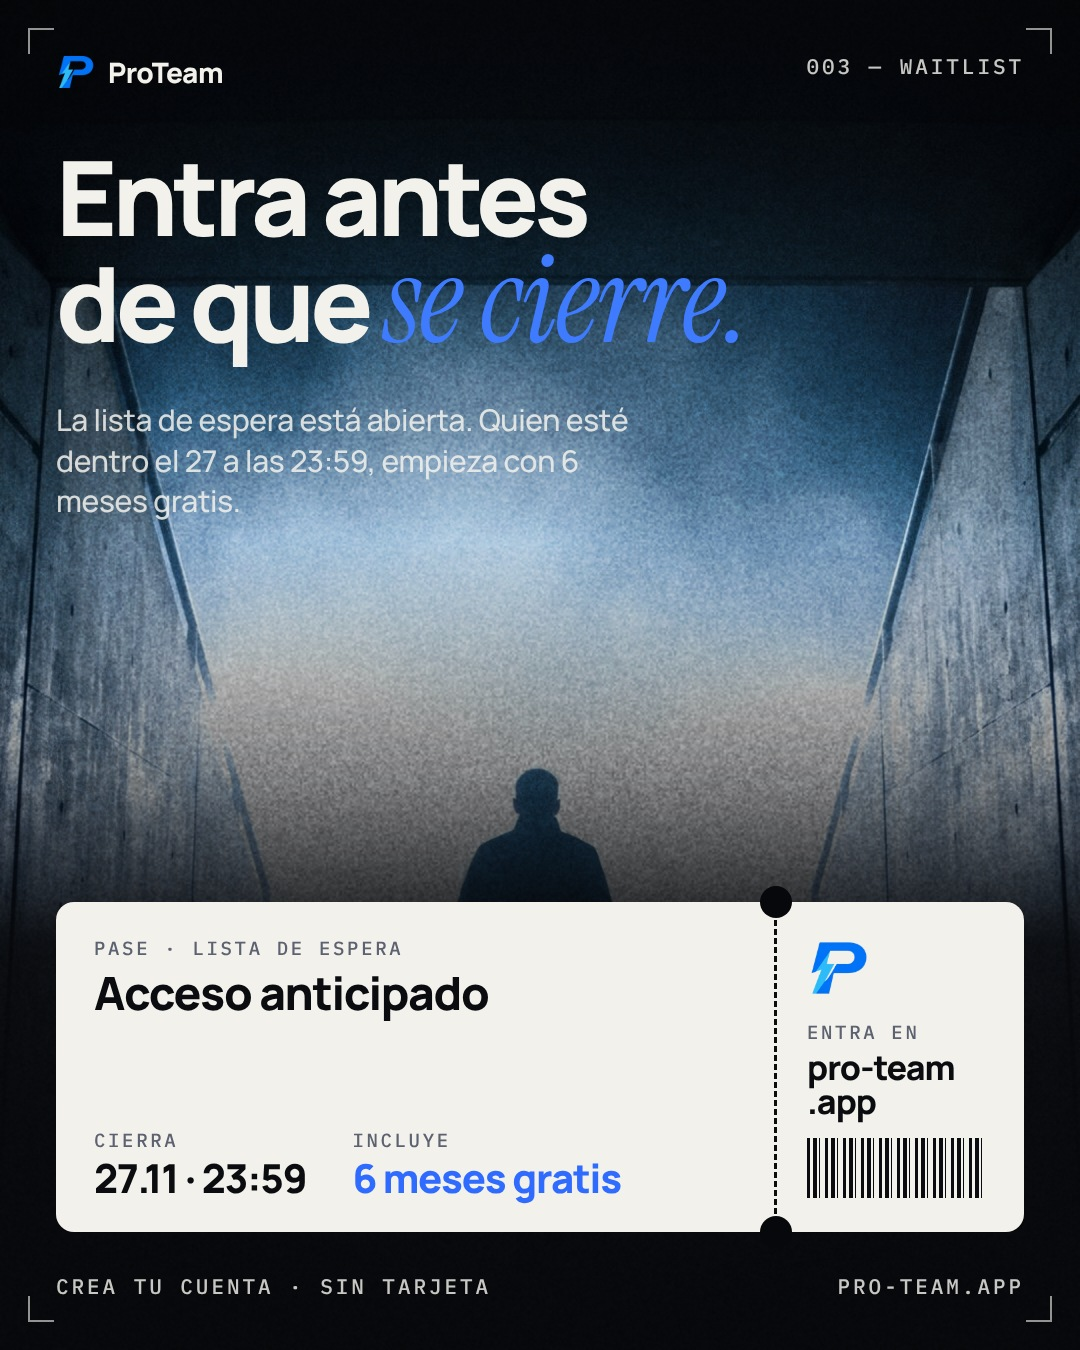
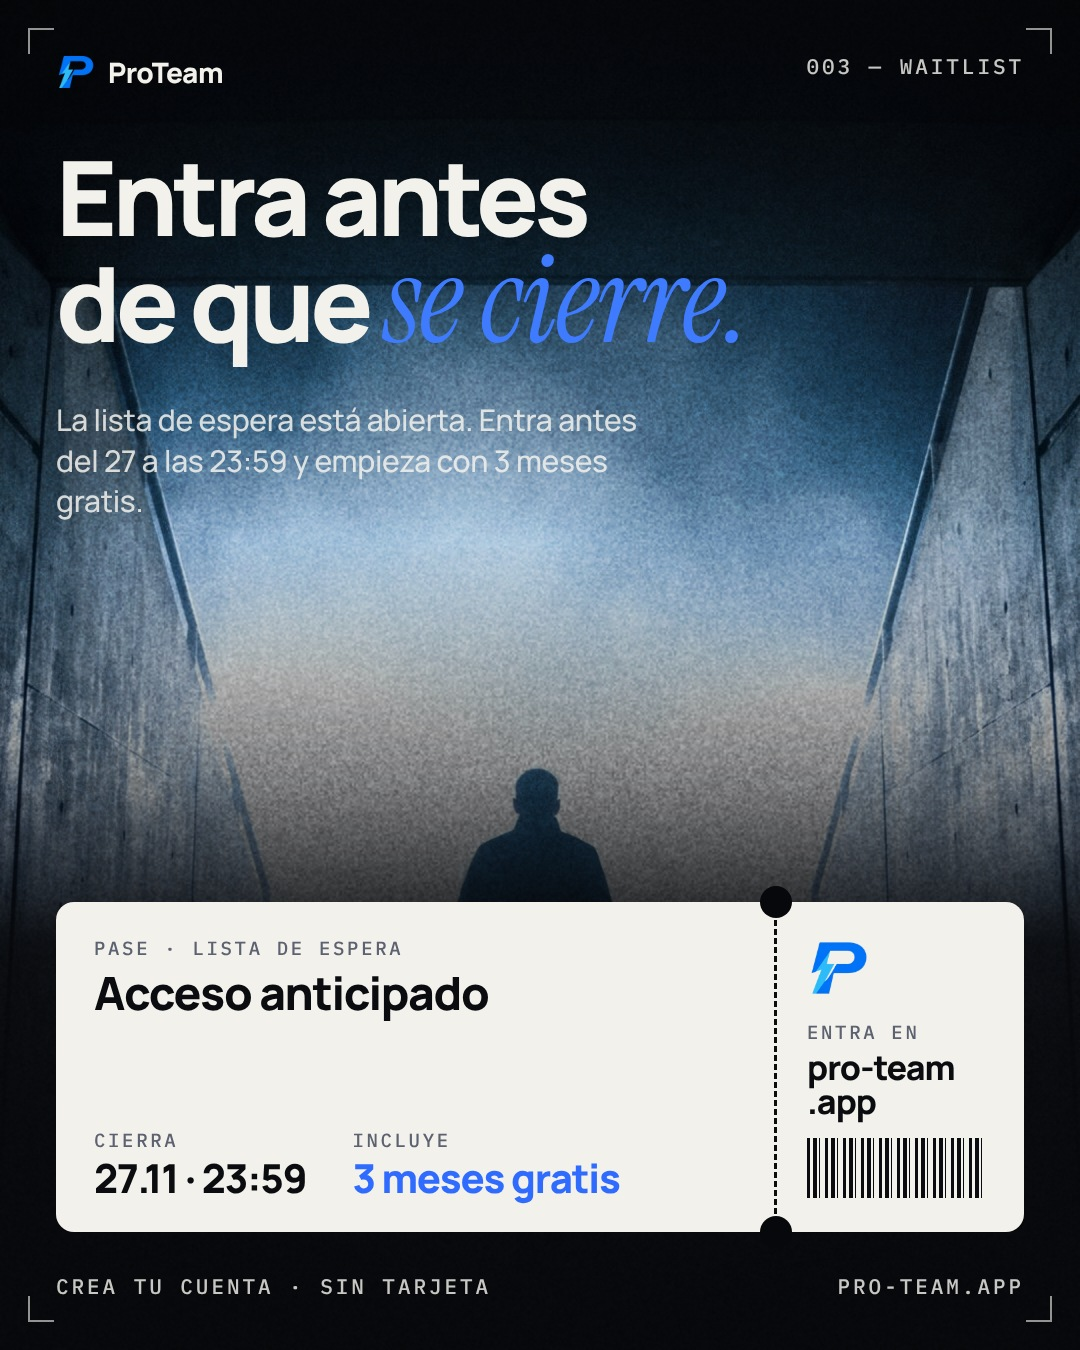
Oferta: 3 meses gratis (sin más ofertas). WAITLIST y borradores actualizados
Claude-Session: https://claude.ai/code/session_01RaLWPGe9jxPAUpw3VoeHpE

Changed region(s): [[0.0611, 0.3111, 0.3361, 0.4044], [0.3667, 0.28, 0.5806, 0.3733], [0.3361, 0.8711, 0.5806, 0.9022]]

diff --git a/tools/drop/serie.html b/tools/drop/serie.html
@@ -80,13 +80,13 @@ body{background:#000}
   <div class="lbl tl"><span class="mark"><img src="../../kit/mark.png">ProTeam</span></div>
   <div class="lbl tr">003 — Waitlist</div>
   <div class="h" style="top:150px;font-size:104px">Entra antes<br>de que <span class="it" style="font-size:124px">se cierre.</span></div>
-  <div class="copy" style="top:400px;width:620px">La lista de espera está abierta. Quien esté dentro el 27 a las 23:59, empieza con 6 meses gratis.</div>
+  <div class="copy" style="top:400px;width:620px">La lista de espera está abierta. Entra antes del 27 a las 23:59 y empieza con 3 meses gratis.</div>
   <div class="pass">
     <div class="l">
       <div><div class="pk">Pase · Lista de espera</div><div class="pv" style="margin-top:10px">Acceso anticipado</div></div>
       <div style="display:flex;gap:46px">
         <div><div class="pk">Cierra</div><div class="pv" style="font-size:40px;margin-top:6px">27.11 · 23:59</div></div>
-        <div><div class="pk">Incluye</div><div class="pv" style="font-size:40px;margin-top:6px;color:#2f6bff">6 meses gratis</div></div>
+        <div><div class="pk">Incluye</div><div class="pv" style="font-size:40px;margin-top:6px;color:#2f6bff">3 meses gratis</div></div>
       </div>
     </div>
     <div class="r">

diff --git a/PLAYBOOK.md b/PLAYBOOK.md
@@ -329,3 +329,6 @@ que mantener; el panel se actualiza solo al leerla.
   JSON `[{archivo, img}]`; subirlo al panel con el Artifact tool (publish con `url` del panel,
   `asset: true`) y actualizar el documento `datasets/portadas` (url, name, updated) con ArtifactData.
   Si esas herramientas no están disponibles en la sesión, omitir este paso.
+
+## Oferta (13 nov 2026, decidido por Biel; manda sobre lo anterior)
+- La oferta es **3 meses gratis** (no 6). No habrá más ofertas. Ninguna pieza menciona 6 meses.
